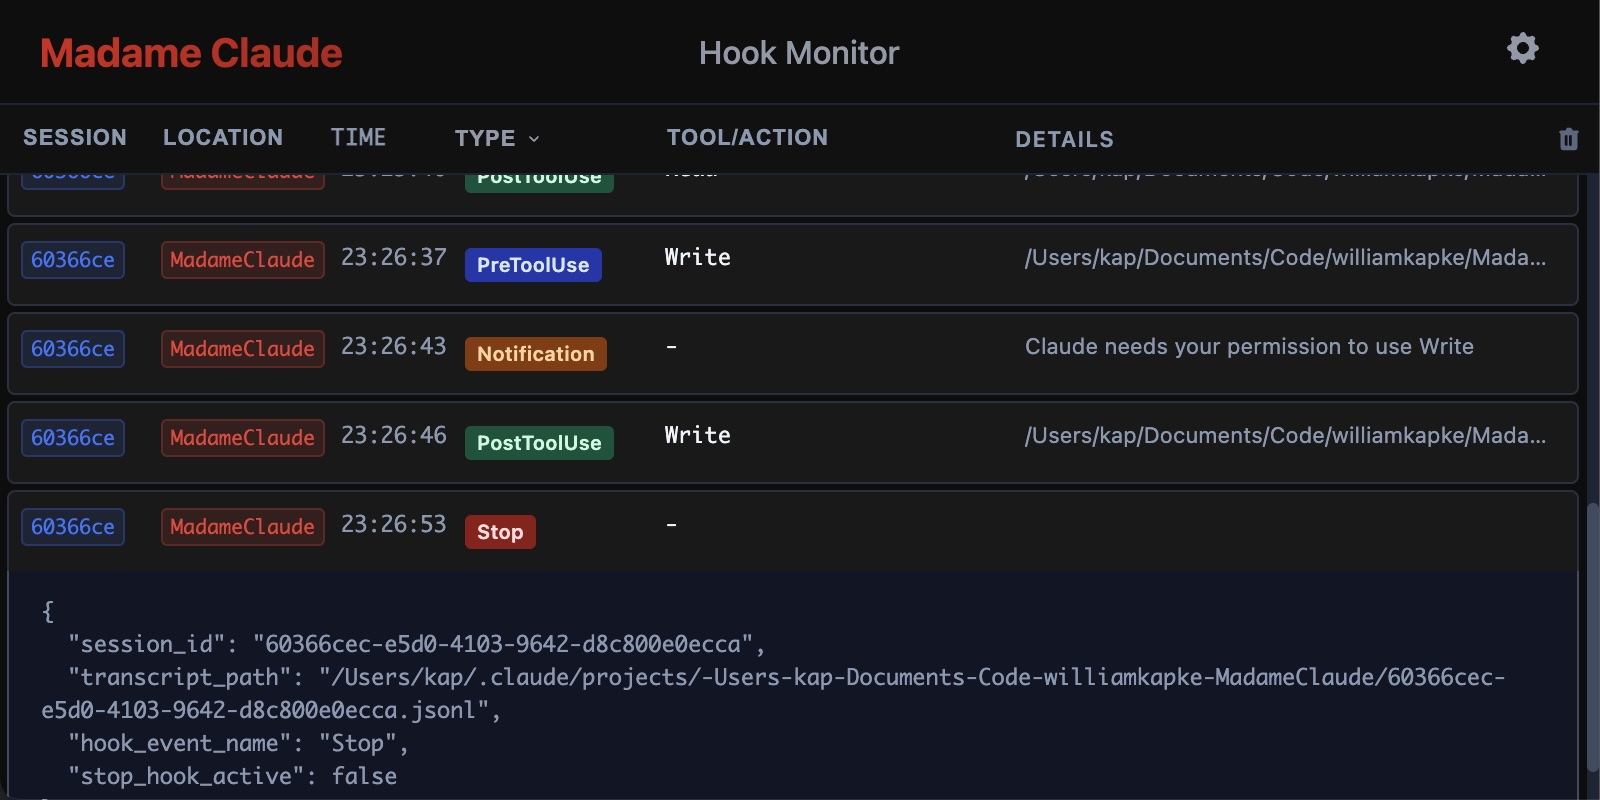
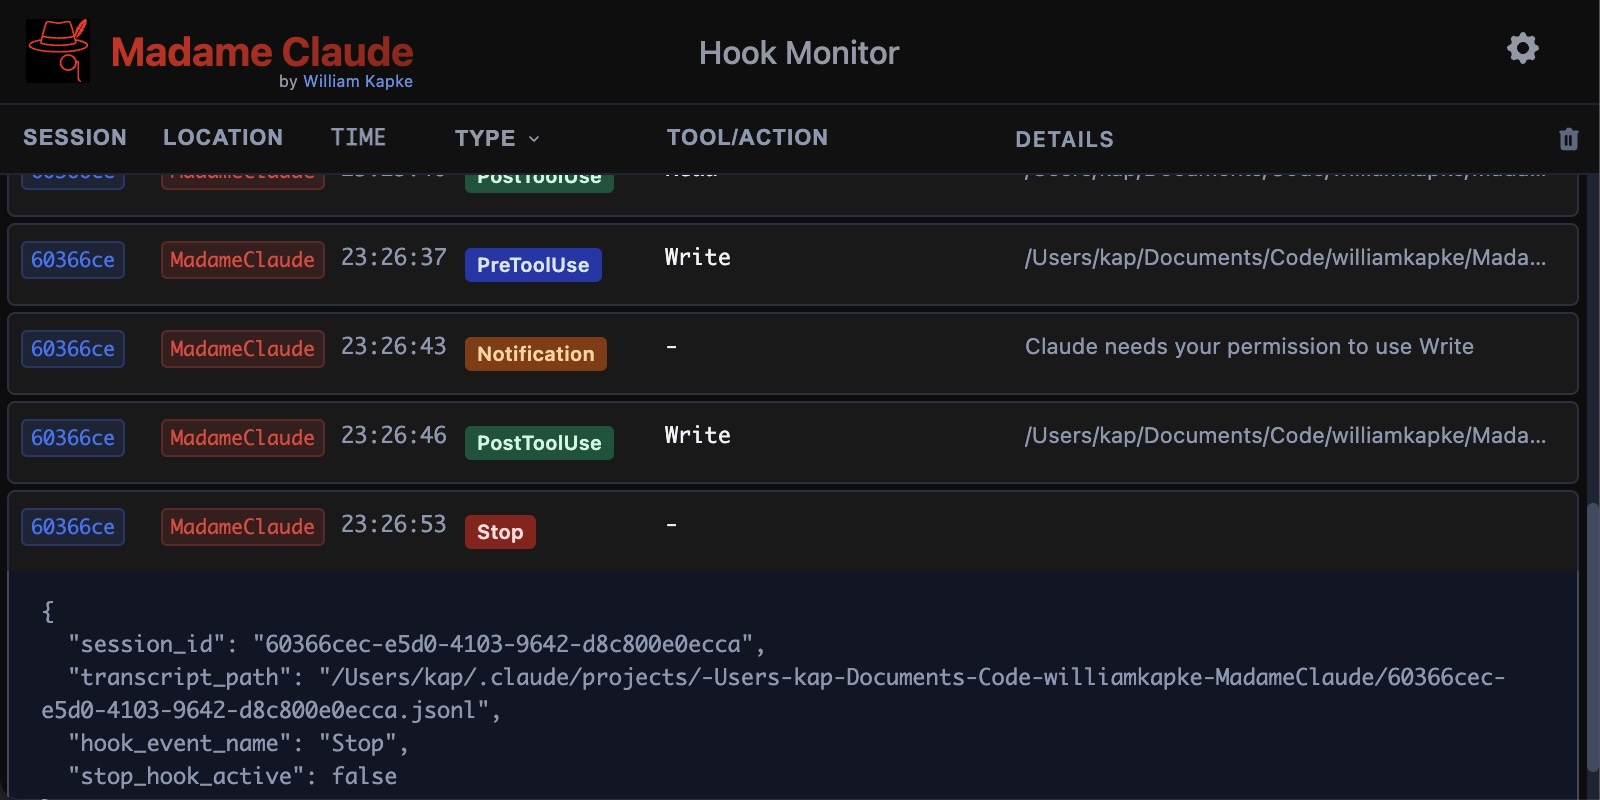
Update screenshots

Changed region(s): [[0.0, 0.0312, 0.2812, 0.125]]

diff --git a/server/README.md b/server/README.md
@@ -2,6 +2,8 @@
 
 Real-time monitoring for Claude Code hooks.
 
+![screenshot.jpg](screenshot.webp)
+
 ## Usage
 
 Start the server:
@@ -39,15 +41,6 @@ Configure Claude Code hooks in `~/.claude/settings.json`:
 
 
 Open http://localhost:4519 to view events.
-
-## Development
-
-```bash
-npm install
-npm start     # Run server
-npm test      # Run tests
-npm run dev   # Run with auto-reload
-```
 
 ## License
 
